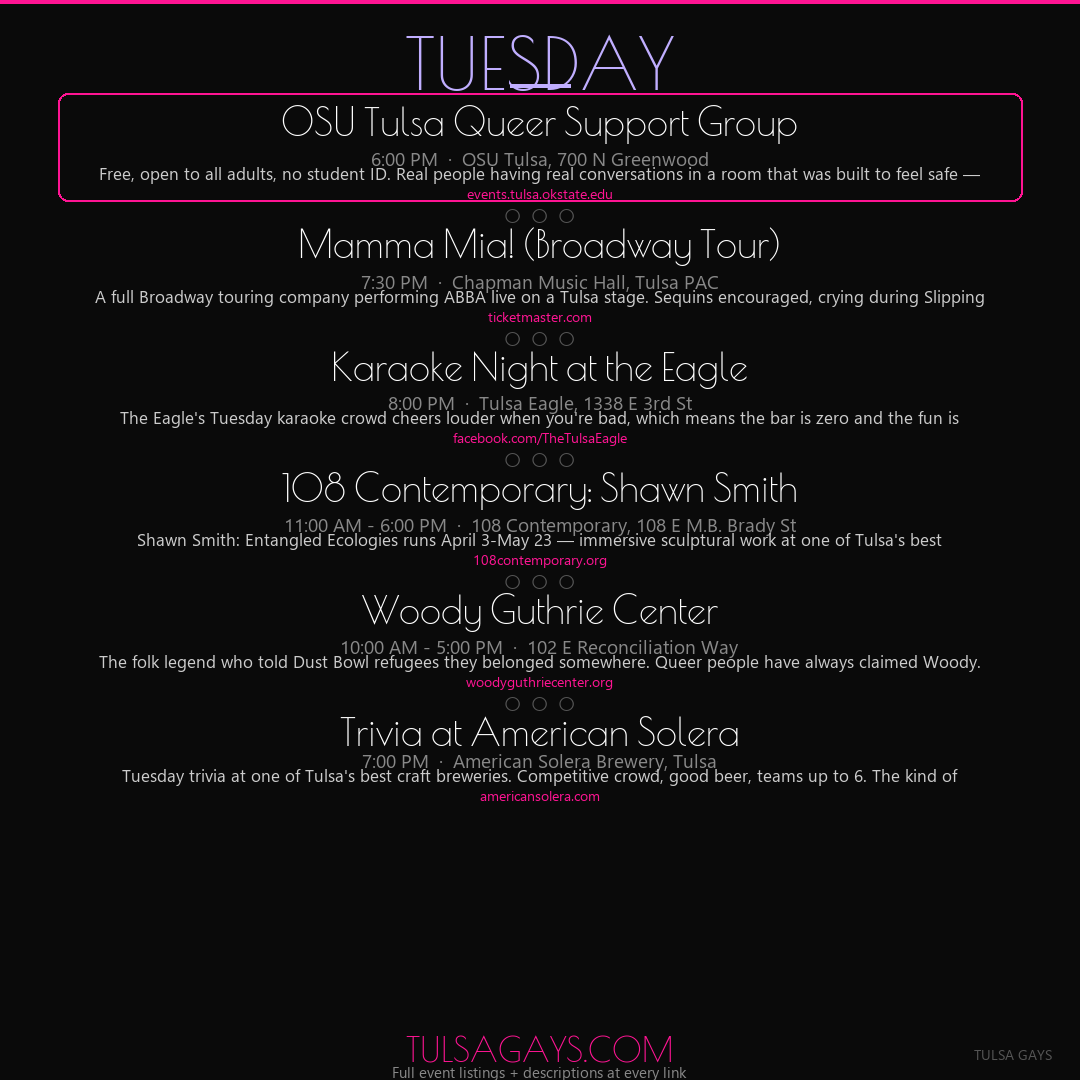
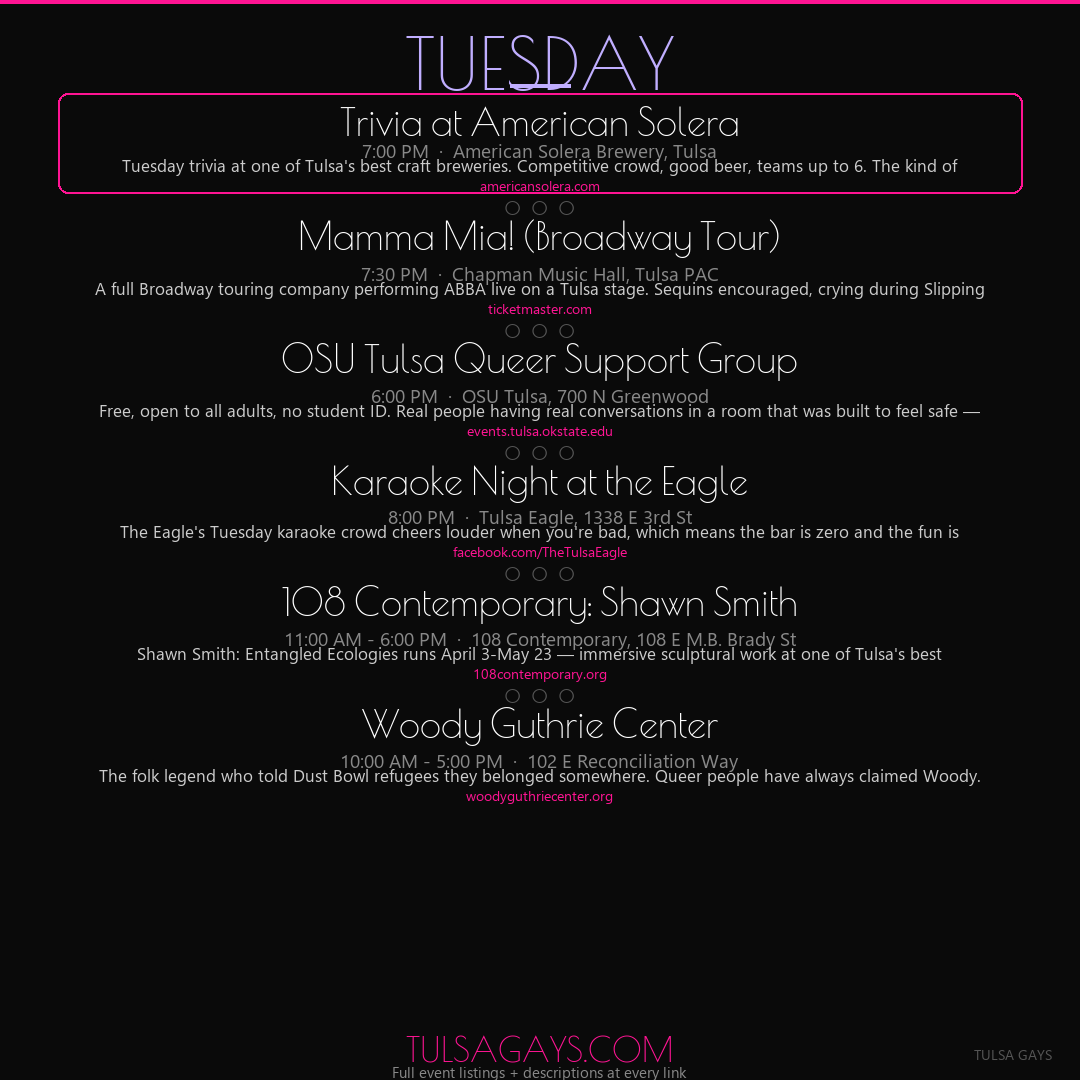
Fix event-of-day picks: fun + open-to-all + good cause
- Tue: Trivia at American Solera (was OSU support group meeting)
- Wed: Stitched Up Heart at The Vanguard live concert (was Mamma Mia)
- Fri: Tulsa Oilers PSO Pack the House Night (was Mamma Mia again)
- Sun: Sunday Showdown open talent night (was All Souls services)
- Mamma Mia no longer featured on multiple days

Changed region(s): [[0.0917, 0.0917, 0.9167, 0.7639]]

diff --git a/docs/index.html b/docs/index.html
@@ -208,27 +208,14 @@
 
                 <div class="event-card featured">
                     <div class="event-time-col">
-                        <div class="event-time" style="color:var(--gold)">6:00</div>
+                        <div class="event-time" style="color:var(--gold)">7:00</div>
                         <div class="event-ampm">PM</div>
                     </div>
                     <div class="event-details">
-                        <div class="event-name" style="color:var(--gold)">OSU Tulsa Queer Support Group</div>
-                        <div class="event-venue" style="color:var(--day-tue)">OSU Tulsa &middot; 700 N Greenwood</div>
-                        <div class="event-description">Free, open to all adults, no student ID required. Real people having real conversations in a room that was built to feel safe &mdash; rarer in Tulsa than it should be. Show up as you are.</div>
-                        <a href="https://events.tulsa.okstate.edu" class="event-link" target="_blank" rel="noopener">OSU Tulsa Events &rarr;</a>
-                    </div>
-                </div>
-
-                <div class="event-card">
-                    <div class="event-time-col">
-                        <div class="event-time" style="color:var(--day-tue)">10:00</div>
-                        <div class="event-ampm">AM</div>
-                    </div>
-                    <div class="event-details">
-                        <div class="event-name">OKEQ Seniors Program</div>
-                        <div class="event-venue" style="color:var(--day-tue)">Equality Center &middot; 621 E 4th St</div>
-                        <div class="event-description">LGBTQ+ elders program every Tuesday morning &mdash; advocacy, support, community, and a room full of queer adults who have survived everything and are still here. Free.</div>
-                        <a href="https://okeq.org" class="event-link" target="_blank" rel="noopener">OKEQ &rarr;</a>
+                        <div class="event-name" style="color:var(--gold)">Trivia at American Solera</div>
+                        <div class="event-venue" style="color:var(--day-tue)">American Solera Brewery &middot; Tulsa</div>
+                        <div class="event-description">Tuesday trivia at one of Tulsa's best craft breweries. Competitive crowd, good beer, teams up to 6. The kind of Tuesday that actually feels like something.</div>
+                        <a href="https://americansolera.com" class="event-link" target="_blank" rel="noopener">American Solera &rarr;</a>
                     </div>
                 </div>
 
@@ -247,19 +234,6 @@
 
                 <div class="event-card">
                     <div class="event-time-col">
-                        <div class="event-time" style="color:var(--day-tue)">7:00</div>
-                        <div class="event-ampm">PM</div>
-                    </div>
-                    <div class="event-details">
-                        <div class="event-name">PFLAG Tulsa Meeting</div>
-                        <div class="event-venue" style="color:var(--day-tue)">Equality Center &middot; 621 E 4th St</div>
-                        <div class="event-description">PFLAG Tulsa meets monthly &mdash; support, education, and advocacy for LGBTQ+ people and their families. Check tulsapflag.org to confirm this is the April date. If your family needs this, it's here.</div>
-                        <a href="https://tulsapflag.org" class="event-link" target="_blank" rel="noopener">PFLAG Tulsa &rarr;</a>
-                    </div>
-                </div>
-
-                <div class="event-card">
-                    <div class="event-time-col">
                         <div class="event-time" style="color:var(--day-tue)">8:00</div>
                         <div class="event-ampm">PM</div>
                     </div>
@@ -273,14 +247,40 @@
 
                 <div class="event-card">
                     <div class="event-time-col">
+                        <div class="event-time" style="color:var(--day-tue)">6:00</div>
+                        <div class="event-ampm">PM</div>
+                    </div>
+                    <div class="event-details">
+                        <div class="event-name">OSU Tulsa Queer Support Group</div>
+                        <div class="event-venue" style="color:var(--day-tue)">OSU Tulsa &middot; 700 N Greenwood</div>
+                        <div class="event-description">Free, open to all adults, no student ID required. Real people having real conversations in a room that was built to feel safe &mdash; rarer in Tulsa than it should be. Show up as you are.</div>
+                        <a href="https://events.tulsa.okstate.edu" class="event-link" target="_blank" rel="noopener">OSU Tulsa Events &rarr;</a>
+                    </div>
+                </div>
+
+                <div class="event-card">
+                    <div class="event-time-col">
                         <div class="event-time" style="color:var(--day-tue)">7:00</div>
                         <div class="event-ampm">PM</div>
                     </div>
                     <div class="event-details">
-                        <div class="event-name">Trivia at American Solera</div>
-                        <div class="event-venue" style="color:var(--day-tue)">American Solera Brewery &middot; Tulsa</div>
-                        <div class="event-description">Tuesday trivia at one of Tulsa's best craft breweries. Competitive crowd, good beer, teams up to 6. The kind of Tuesday that actually feels like something.</div>
-                        <a href="https://americansolera.com" class="event-link" target="_blank" rel="noopener">American Solera &rarr;</a>
+                        <div class="event-name">PFLAG Tulsa Meeting</div>
+                        <div class="event-venue" style="color:var(--day-tue)">Equality Center &middot; 621 E 4th St</div>
+                        <div class="event-description">PFLAG Tulsa meets monthly &mdash; support, education, and advocacy for LGBTQ+ people and their families. Check tulsapflag.org to confirm this is the April date. If your family needs this, it's here.</div>
+                        <a href="https://tulsapflag.org" class="event-link" target="_blank" rel="noopener">PFLAG Tulsa &rarr;</a>
+                    </div>
+                </div>
+
+                <div class="event-card">
+                    <div class="event-time-col">
+                        <div class="event-time" style="color:var(--day-tue)">10:00</div>
+                        <div class="event-ampm">AM</div>
+                    </div>
+                    <div class="event-details">
+                        <div class="event-name">OKEQ Seniors Program</div>
+                        <div class="event-venue" style="color:var(--day-tue)">Equality Center &middot; 621 E 4th St</div>
+                        <div class="event-description">LGBTQ+ elders program every Tuesday morning &mdash; advocacy, support, community, and a room full of queer adults who have survived everything and are still here. Free.</div>
+                        <a href="https://okeq.org" class="event-link" target="_blank" rel="noopener">OKEQ &rarr;</a>
                     </div>
                 </div>
 
@@ -322,11 +322,24 @@
 
                 <div class="event-card featured">
                     <div class="event-time-col">
-                        <div class="event-time" style="color:var(--gold)">7:30</div>
+                        <div class="event-time" style="color:var(--gold)">DOORS</div>
+                        <div class="event-ampm">7 PM</div>
+                    </div>
+                    <div class="event-details">
+                        <div class="event-name" style="color:var(--gold)">Stitched Up Heart at The Vanguard</div>
+                        <div class="event-venue" style="color:var(--day-wed)">The Vanguard &middot; 222 N Main St</div>
+                        <div class="event-description">Rock band Stitched Up Heart performing live in the Arts District tonight. Queer rock energy. Tickets from $44 &mdash; worth it for a midweek show in a venue this good.</div>
+                        <a href="https://thevanguardtulsa.com" class="event-link" target="_blank" rel="noopener">The Vanguard &rarr;</a>
+                    </div>
+                </div>
+
+                <div class="event-card">
+                    <div class="event-time-col">
+                        <div class="event-time" style="color:var(--day-wed)">7:30</div>
                         <div class="event-ampm">PM</div>
                     </div>
                     <div class="event-details">
-                        <div class="event-name" style="color:var(--gold)">Mamma Mia! (Broadway Tour)</div>
+                        <div class="event-name">Mamma Mia! (Broadway Tour)</div>
                         <div class="event-venue" style="color:var(--day-wed)">Chapman Music Hall &middot; Tulsa PAC</div>
                         <div class="event-description">Midweek Broadway is the underrated move &mdash; slightly smaller crowd, same electric energy. ABBA, sequins, a mystery dad. Grab a drink in the PAC lobby and surrender completely.</div>
                         <a href="https://tulsapac.com" class="event-link" target="_blank" rel="noopener">Tulsa PAC &rarr;</a>
@@ -589,27 +602,27 @@
 
                 <div class="event-card featured">
                     <div class="event-time-col">
-                        <div class="event-time" style="color:var(--gold)">8:00</div>
+                        <div class="event-time" style="color:var(--gold)">7:05</div>
                         <div class="event-ampm">PM</div>
                     </div>
                     <div class="event-details">
-                        <div class="event-name" style="color:var(--gold)">Mamma Mia! &mdash; Friday Night</div>
-                        <div class="event-venue" style="color:var(--day-fri)">Chapman Music Hall &middot; Tulsa PAC</div>
-                        <div class="event-description">Friday night Broadway is the move &mdash; dress up, make a reservation first, walk in like you planned to feel something amazing tonight because you did. Tickets still available but Friday fills fast.</div>
-                        <a href="https://ticketmaster.com" class="event-link" target="_blank" rel="noopener">Get Tickets &rarr;</a>
+                        <div class="event-name" style="color:var(--gold)">Tulsa Oilers vs. Idaho Steelheads</div>
+                        <div class="event-venue" style="color:var(--day-fri)">BOK Center &middot; 200 S Denver Ave</div>
+                        <div class="event-description">PSO Pack the House Night with reversible bucket hat giveaway &mdash; and the queer community has fully claimed Oilers nights at BOK. Fast, fun, affordable. Get there early for the hat.</div>
+                        <a href="https://tulsaoilers.com" class="event-link" target="_blank" rel="noopener">Tulsa Oilers &rarr;</a>
                     </div>
                 </div>
 
                 <div class="event-card">
                     <div class="event-time-col">
-                        <div class="event-time" style="color:var(--day-fri)">7:05</div>
+                        <div class="event-time" style="color:var(--day-fri)">8:00</div>
                         <div class="event-ampm">PM</div>
                     </div>
                     <div class="event-details">
-                        <div class="event-name">Tulsa Oilers vs. Idaho Steelheads</div>
-                        <div class="event-venue" style="color:var(--day-fri)">BOK Center &middot; 200 S Denver Ave</div>
-                        <div class="event-description">PSO Pack the House Night with reversible bucket hat giveaway &mdash; and the queer community has fully claimed Oilers nights at BOK. Fast, fun, affordable. Get there early for the hat.</div>
-                        <a href="https://tulsaoilers.com" class="event-link" target="_blank" rel="noopener">Tulsa Oilers &rarr;</a>
+                        <div class="event-name">Mamma Mia! &mdash; Friday Night</div>
+                        <div class="event-venue" style="color:var(--day-fri)">Chapman Music Hall &middot; Tulsa PAC</div>
+                        <div class="event-description">Friday night Broadway is the move &mdash; dress up, make a reservation first, walk in like you planned to feel something amazing tonight because you did. Tickets still available but Friday fills fast.</div>
+                        <a href="https://ticketmaster.com" class="event-link" target="_blank" rel="noopener">Get Tickets &rarr;</a>
                     </div>
                 </div>
 
@@ -843,14 +856,14 @@
 
                 <div class="event-card featured">
                     <div class="event-time-col">
-                        <div class="event-time" style="color:var(--gold)">10:00</div>
-                        <div class="event-ampm">AM</div>
+                        <div class="event-time" style="color:var(--gold)">9:00</div>
+                        <div class="event-ampm">PM</div>
                     </div>
                     <div class="event-details">
-                        <div class="event-name" style="color:var(--gold)">All Souls Unitarian Services</div>
-                        <div class="event-venue" style="color:var(--day-sun)">All Souls Unitarian &middot; 2952 S Peoria Ave</div>
-                        <div class="event-description">Largest UU congregation in the US, queer-affirming since before it was a selling point. Walk in alone and walk out feeling like you belong somewhere in this city. Two services: 10 AM and 11:15 AM, show up when you can.</div>
-                        <a href="https://allsoulschurch.org" class="event-link" target="_blank" rel="noopener">All Souls Church &rarr;</a>
+                        <div class="event-name" style="color:var(--gold)">Sunday Showdown Open Talent Night</div>
+                        <div class="event-venue" style="color:var(--day-sun)">Club Majestic &middot; 124 N Boston Ave</div>
+                        <div class="event-description">Open talent night at Club Majestic &mdash; perform or come watch, 18+, and the energy after midnight is the specific reason you shouldn't go home early on a Sunday in Tulsa.</div>
+                        <a href="https://clubmajestictulsa.com" class="event-link" target="_blank" rel="noopener">Club Majestic &rarr;</a>
                     </div>
                 </div>
 
@@ -869,14 +882,14 @@
 
                 <div class="event-card">
                     <div class="event-time-col">
-                        <div class="event-time" style="color:var(--day-sun)">9:00</div>
-                        <div class="event-ampm">PM</div>
+                        <div class="event-time" style="color:var(--day-sun)">10:00</div>
+                        <div class="event-ampm">AM</div>
                     </div>
                     <div class="event-details">
-                        <div class="event-name">Sunday Showdown Open Talent Night</div>
-                        <div class="event-venue" style="color:var(--day-sun)">Club Majestic &middot; 124 N Boston Ave</div>
-                        <div class="event-description">Open talent night at Club Majestic &mdash; perform or come watch, 18+, and the energy after midnight is the specific reason you shouldn't go home early on a Sunday in Tulsa.</div>
-                        <a href="https://clubmajestictulsa.com" class="event-link" target="_blank" rel="noopener">Club Majestic &rarr;</a>
+                        <div class="event-name">All Souls Unitarian Services</div>
+                        <div class="event-venue" style="color:var(--day-sun)">All Souls Unitarian &middot; 2952 S Peoria Ave</div>
+                        <div class="event-description">Largest UU congregation in the US, queer-affirming since before it was a selling point. Walk in alone and walk out feeling like you belong somewhere in this city. Two services: 10 AM and 11:15 AM, show up when you can.</div>
+                        <a href="https://allsoulschurch.org" class="event-link" target="_blank" rel="noopener">All Souls Church &rarr;</a>
                     </div>
                 </div>
 

diff --git a/gen_this_week.py b/gen_this_week.py
@@ -38,8 +38,9 @@ events_by_day = {
         {"name": "OKEQ Health Clinic", "time": "Business hours — call to confirm", "venue": "Equality Center, 621 E 4th St", "description": "LGBTQ+ affirming healthcare, STI testing, and PrEP access at the Equality Center. Walk-ins welcome. This is what having queer-centered healthcare feels like.", "url": "okeq.org/programs"},
     ],
     "Tuesday": [
-        {"name": "OSU Tulsa Queer Support Group", "time": "6:00 PM", "venue": "OSU Tulsa, 700 N Greenwood", "description": "Free, open to all adults, no student ID. Real people having real conversations in a room that was built to feel safe — rarer in Tulsa than it should be. Show up as you are.", "url": "events.tulsa.okstate.edu"},
+        {"name": "Trivia at American Solera", "time": "7:00 PM", "venue": "American Solera Brewery, Tulsa", "description": "Tuesday trivia at one of Tulsa's best craft breweries. Competitive crowd, good beer, teams up to 6. The kind of Tuesday that actually feels like something.", "url": "americansolera.com"},
         {"name": "Mamma Mia! (Broadway Tour)", "time": "7:30 PM", "venue": "Chapman Music Hall, Tulsa PAC", "description": "A full Broadway touring company performing ABBA live on a Tulsa stage. Sequins encouraged, crying during Slipping Through My Fingers mandatory. Dress up, get there early for lobby drinks.", "url": "ticketmaster.com"},
+        {"name": "OSU Tulsa Queer Support Group", "time": "6:00 PM", "venue": "OSU Tulsa, 700 N Greenwood", "description": "Free, open to all adults, no student ID. Real people having real conversations in a room that was built to feel safe — rarer in Tulsa than it should be. Show up as you are.", "url": "events.tulsa.okstate.edu"},
         {"name": "Karaoke Night at the Eagle", "time": "8:00 PM", "venue": "Tulsa Eagle, 1338 E 3rd St", "description": "The Eagle's Tuesday karaoke crowd cheers louder when you're bad, which means the bar is zero and the fun is unlimited. Pick something you half-know and commit fully.", "url": "facebook.com/TheTulsaEagle"},
         {"name": "108 Contemporary: Shawn Smith", "time": "11:00 AM - 6:00 PM", "venue": "108 Contemporary, 108 E M.B. Brady St", "description": "Shawn Smith: Entangled Ecologies runs April 3-May 23 — immersive sculptural work at one of Tulsa's best contemporary craft galleries. Free admission. Brady Arts District, right where you want to be.", "url": "108contemporary.org"},
         {"name": "Woody Guthrie Center", "time": "10:00 AM - 5:00 PM", "venue": "102 E Reconciliation Way", "description": "The folk legend who told Dust Bowl refugees they belonged somewhere. Queer people have always claimed Woody. Tucked in the Arts District, worth an hour of your afternoon.", "url": "woodyguthriecenter.org"},
@@ -50,10 +51,10 @@ events_by_day = {
         {"name": "OKEQ Seniors", "time": "10:00 AM - 12:00 PM", "venue": "Equality Center, 621 E 4th St", "description": "LGBTQ+ elders program every Tuesday morning — advocacy, support, community, and a room full of queer adults who have survived everything and are still here. Free.", "url": "okeq.org"},
     ],
     "Wednesday": [
+        {"name": "Stitched Up Heart at The Vanguard", "time": "Doors 7 PM, Show 8 PM", "venue": "The Vanguard, 222 N Main St", "description": "Rock band Stitched Up Heart performing live at The Vanguard in the Arts District tonight. Queer rock energy. Tickets from $44 — worth it for a midweek show in a venue this good.", "url": "thevanguardtulsa.com"},
         {"name": "Mamma Mia! (Broadway Tour)", "time": "7:30 PM", "venue": "Chapman Music Hall, Tulsa PAC", "description": "Midweek Broadway is the underrated move — slightly smaller crowd, same electric energy. ABBA, sequins, a mystery dad. Grab a drink in the PAC lobby and surrender completely.", "url": "tulsapac.com"},
         {"name": "Gender Support Group", "time": "7:00 - 8:30 PM", "venue": "Equality Center, 621 E 4th St", "description": "OKEQ's free weekly group for trans, nonbinary, and gender-questioning folks — confidential, peer-led, run by people who actually get it. No prep required, just show up.", "url": "okeq.org/transgender-support"},
         {"name": "Eagle Underwear Night", "time": "9:00 PM", "venue": "Tulsa Eagle, 1338 E 3rd St", "description": "Every Wednesday, pants are optional and confidence is the dress code. Open from 2 PM if you need time to warm up. The crowd gets good after dark.", "url": "facebook.com/TheTulsaEagle"},
-        {"name": "Stitched Up Heart at The Vanguard", "time": "Doors 7 PM, Show 8 PM", "venue": "The Vanguard, 222 N Main St", "description": "Rock band Stitched Up Heart performing live at The Vanguard in the Arts District tonight. Queer rock energy. Tickets from $44 — worth it for a midweek show in a venue this good.", "url": "thevanguardtulsa.com"},
         {"name": "Tulsa Botanic Garden: Bands & Blooms", "time": "10:00 AM", "venue": "Tulsa Botanic Garden, 3900 Tulsa Botanic Dr", "description": "Outdoor concerts in the middle of thousands of spring blooms — the Bands & Blooms series runs through April 16. Bring a blanket, bring someone, make a day of it.", "url": "tulsabotanic.org"},
         {"name": "Philbrook Museum", "time": "9:00 AM - 5:00 PM", "venue": "Philbrook Museum, 2727 S Rockford Rd", "description": "One of the most beautiful museum settings in the country — Renaissance villa, world-class collection, formal gardens. A queer afternoon in an objectively stunning space.", "url": "philbrook.org"},
         {"name": "108 Contemporary: Shawn Smith", "time": "11:00 AM - 6:00 PM", "venue": "108 Contemporary, 108 E M.B. Brady St", "description": "Entangled Ecologies continues — sculptural and fiber work by Shawn Smith through May 23. Free admission, Brady Arts District, 15 minutes in and you'll want to stay longer.", "url": "108contemporary.org"},
@@ -80,9 +81,9 @@ events_by_day = {
         {"name": "OKEQ Health Clinic", "time": "9:00 AM - 12:00 PM", "venue": "Equality Center, 621 E 4th St", "description": "Thursday morning LGBTQ+ health clinic hours — appointment required, call 918-938-6537. STI testing, PrEP, affirming primary care.", "url": "okeq.org/programs"},
     ],
     "Friday": [
+        {"name": "Tulsa Oilers vs Idaho Steelheads", "time": "7:05 PM", "venue": "BOK Center, 200 S Denver Ave", "description": "PSO Pack the House Night with reversible bucket hat giveaway — and the queer community has fully claimed Oilers nights at BOK. Fast, fun, affordable. Get there early for the hat.", "url": "tulsaoilers.com"},
         {"name": "Mamma Mia! Friday Night Show", "time": "8:00 PM", "venue": "Chapman Music Hall, Tulsa PAC", "description": "Friday night Broadway is the move — dress up, make a reservation first, walk in like you planned to feel something amazing tonight because you did. Tickets still available but Friday fills fast.", "url": "ticketmaster.com"},
         {"name": "Girl Dinner at Inheritance Kitchen", "time": "6:00 - 10:00 PM", "venue": "Inheritance Kitchen, 108 S Detroit Ave", "description": "Plant-based, stunning food, perfect date-night energy — one of the most beautiful restaurants in Tulsa. Start here before the show or make it the whole evening. Make a reservation.", "url": "inheritancejuicery.com"},
-        {"name": "Tulsa Oilers vs Idaho Steelheads", "time": "7:05 PM", "venue": "BOK Center, 200 S Denver Ave", "description": "PSO Pack the House Night with reversible bucket hat giveaway — and the queer community has fully claimed Oilers nights at BOK. Fast, fun, affordable. Get there early for the hat.", "url": "tulsaoilers.com"},
         {"name": "Tulsa Botanic Garden: Bands & Blooms", "time": "10:00 AM", "venue": "Tulsa Botanic Garden, 3900 Tulsa Botanic Dr", "description": "Last Friday of the Bands & Blooms spring series — outdoor music among thousands of blooms. Perfect Friday afternoon before the evening starts. Bring someone.", "url": "tulsabotanic.org"},
         {"name": "Philbrook Museum", "time": "9:00 AM - 5:00 PM", "venue": "Philbrook Museum, 2727 S Rockford Rd", "description": "Take yourself to the Philbrook before the Friday night starts — art, gardens, a building that makes you feel like you're somewhere else entirely. Worth a Friday afternoon.", "url": "philbrook.org"},
         {"name": "Club Majestic Friday Night", "time": "9:00 PM - 2:00 AM", "venue": "Club Majestic, 124 N Boston Ave", "description": "Tulsa's LGBTQ+ nightclub doing what it does on a Friday night. Check the calendar for DJ nights, themed events, and the kind of dancing you'll tell someone about Monday.", "url": "clubmajestictulsa.com"},
@@ -106,8 +107,8 @@ events_by_day = {
         {"name": "Tulsa Eagle Saturday Night", "time": "2:00 PM - 2:00 AM", "venue": "Tulsa Eagle, 1338 E 3rd St", "description": "Saturday night at the Eagle is exactly what it sounds like — leather, bears, patio, good people. After Sex & Violence, head here and keep the night going.", "url": "facebook.com/TheTulsaEagle"},
     ],
     "Sunday": [
-        {"name": "All Souls Unitarian Services", "time": "10:00 AM + 11:15 AM", "venue": "All Souls, 2952 S Peoria Ave", "description": "Largest UU congregation in the US, queer-affirming since before it was a selling point. Walk in alone and walk out feeling like you belong somewhere in this city. Two services, show up when you can.", "url": "allsoulschurch.org"},
         {"name": "Sunday Showdown Open Talent Night", "time": "9:00 PM", "venue": "Club Majestic, 124 N Boston Ave", "description": "Open talent night at Club Majestic — perform or come watch, 18+, and the energy after midnight is the specific reason you shouldn't go home early on a Sunday in Tulsa.", "url": "clubmajestictulsa.com"},
+        {"name": "All Souls Unitarian Services", "time": "10:00 AM + 11:15 AM", "venue": "All Souls, 2952 S Peoria Ave", "description": "Largest UU congregation in the US, queer-affirming since before it was a selling point. Walk in alone and walk out feeling like you belong somewhere in this city. Two services, show up when you can.", "url": "allsoulschurch.org"},
         {"name": "Mamma Mia! Final Shows", "time": "1:00 PM + 6:30 PM", "venue": "Chapman Music Hall, Tulsa PAC", "description": "Last day. ABBA leaves Tulsa tonight. If you haven't gone you already know what to do. The 6:30 PM show is the one for the full closing-night crowd energy.", "url": "ticketmaster.com"},
         {"name": "Philbrook Museum", "time": "12:00 PM - 5:00 PM", "venue": "Philbrook Museum, 2727 S Rockford Rd", "description": "Philbrook is open Sunday noon to 5 — a slower, quieter version of the best art museum in Tulsa. Sunday hours are perfect for an afternoon without an agenda.", "url": "philbrook.org"},
         {"name": "Gathering Place", "time": "6:00 AM - 11:00 PM", "venue": "2650 S John Williams Way", "description": "Free world-class riverfront park — Sunday at Gathering Place is Tulsa doing something genuinely right. Walk, kayak, sit on the grass, decompress from the week.", "url": "gatheringplace.org"},
